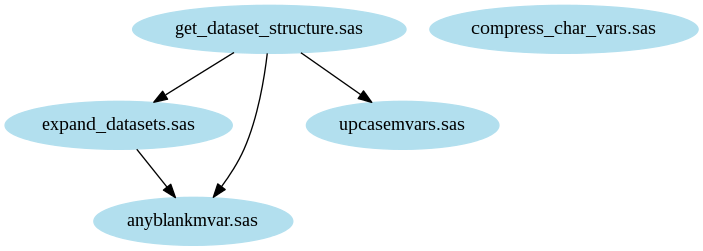
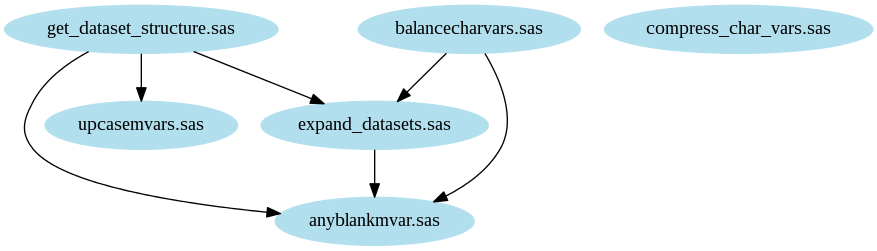
added balancecharvars, recreated macro dependency map

diff --git a/README.md b/README.md
@@ -16,6 +16,7 @@ anyblankmvar:               check if macro variables are blank
 compress_char_variables:    compress character variable to the maximum length of a variable value
 expand_datasets:            checks and expands macro value to dataset names
 upcasemvars:                upcases macro variable values
+balancecharvars:            changes char variables across datasets to avoid truncations
 </pre>
 -------------------------------------------------------------------------------
 ## templates/
